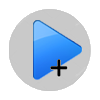
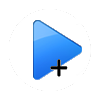
3.2.74

diff --git a/src/XMusic/cpp/ListViewEx.cpp b/src/XMusic/cpp/ListViewEx.cpp
@@ -17,6 +17,40 @@ size_t CListViewEx::getRowCount()
     }
 }
 
+void CListViewEx::update()
+{
+    CListView::update();
+
+    size_t uPageRowCount = getPageRowCount();
+
+    for (auto itr = m_mapButton.begin(); itr != m_mapButton.end(); )
+    {
+        if (itr->first >= uPageRowCount)
+        {
+            delete itr->second;
+            itr = m_mapButton.erase(itr);
+        }
+        else
+        {
+            itr->second->setVisible(false);
+
+            ++itr;
+        }
+    }
+}
+
+bool CListViewEx::event(QEvent *ev)
+{
+    bool bRet = CListView::event(ev);
+
+    if (ev->type() == QEvent::Resize)
+    {
+        update();
+    }
+
+    return bRet;
+}
+
 void CListViewEx::showRoot()
 {
     _clear();
@@ -86,24 +120,21 @@ void CListViewEx::showPath(CPath& path)
     _onShowPath(path);
 }
 
-void CListViewEx::_onPaint(CPainter& painter, int cx, int cy)
+void CListViewEx::_showButton(const tagLVRow& lvRow)
 {
-    size_t uPageRowCount = getPageRowCount();
-    auto uIdx = m_vecButton.size();
-    for (; uIdx < uPageRowCount; uIdx++)
+    CButton*& pButton = m_mapButton[lvRow.uIdx];
+    if (NULL == pButton)
     {
-        m_vecButton.push_back(new CButton(this));
+        pButton = new CButton(this);
+        pButton->setStyleSheet("border-image: url(:/img/btnAddplay.png);");
     }
 
-    for (int nCount = m_vecButton.size(); nCount > uPageRowCount; nCount--)
-    {
-        delete m_vecButton.back();
-        m_vecButton.pop_back();
-    }
-
-    //float fScrollPos = scrollPos();
-
-    CListView::_onPaint(painter, cx, cy);
+    auto height = lvRow.rc.height();
+    auto margin = height*20/100;
+    QRect rcPos(lvRow.rc.right()-height+margin, lvRow.rc.y()+margin
+                , height-margin*2, height-margin*2);
+    pButton->setGeometry(rcPos);
+    pButton->setVisible(true);
 }
 
 void CListViewEx::_onPaintRow(CPainter& painter, const tagLVRow& lvRow)
@@ -124,6 +155,9 @@ void CListViewEx::_onPaintRow(CPainter& painter, const tagLVRow& lvRow)
                 tagMediaContext context(media);
                 _genMediaContext(context);
                 _paintRow(painter, lvRow, context);
+
+
+                _showButton(lvRow);
             });
         }
     }

diff --git a/src/XMusic/cpp/ListViewEx.h b/src/XMusic/cpp/ListViewEx.h
@@ -61,9 +61,11 @@ private:
     TD_PathList m_paSubDirs;
     TD_XFileList m_paSubFiles;
 
-    vector<CButton*> m_vecButton;
+    map<UINT, CButton*> m_mapButton;
 
 protected:
+    virtual bool event(QEvent *ev) override;
+
     CMediaSet* currentMediaSet() const
     {
         return m_pMediaset;
@@ -121,9 +123,9 @@ private:
 
     virtual size_t _getRootRowCount() = 0;
 
-    void _onPaint(CPainter& painter, int cx, int cy) override;
-
     void _onPaintRow(CPainter&, const tagLVRow&) override;
+
+    void _showButton(const tagLVRow& lvRow);
 
     virtual bool _genRootRowContext(const tagLVRow&, tagMediaContext&) = 0;
     virtual void _genMediaContext(tagMediaContext&) {}
@@ -161,4 +163,6 @@ public:
     }
 
     bool upward();
+
+    void update();
 };

diff --git a/src/XMusic/cpp/button.h b/src/XMusic/cpp/button.h
@@ -30,7 +30,6 @@ private:
         else if (E_MouseEventType::MET_Release == type)
         {
             setOpacity(0.5);
-
             timerutil::async(300, [&](){
                 setOpacity(1);
             });
